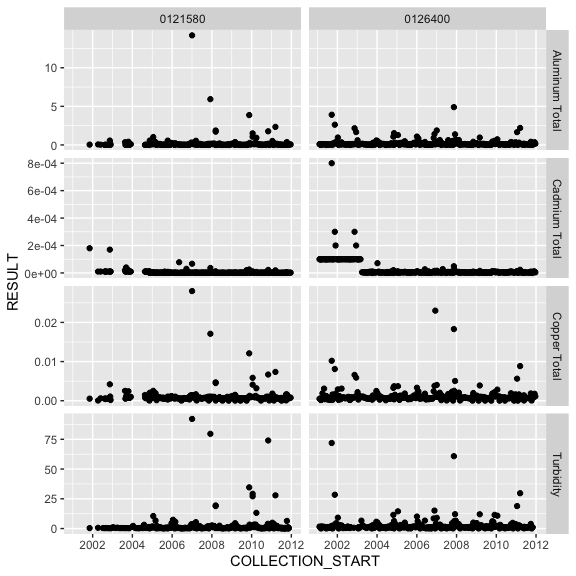
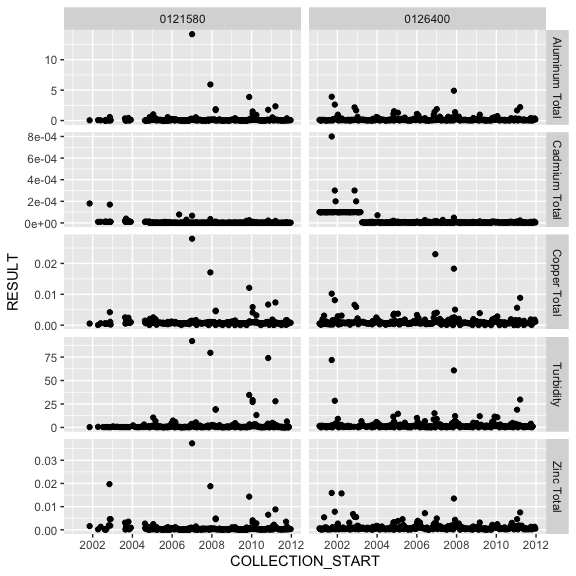
Update README

Changed region(s): [[0.0312, 0.0625, 1.0, 0.9375], [0.5312, 0.8438, 0.9375, 0.9375], [0.0625, 0.0938, 0.125, 0.125]]

diff --git a/README.md b/README.md
@@ -1,8 +1,7 @@
 
 <!-- README.md is generated from README.Rmd. Please edit that file -->
 
-rems 0.5.2
-==========
+# rems 0.6.0
 
 <!-- badges: start -->
 
@@ -16,8 +15,7 @@ status](https://github.com/bcgov/rems/workflows/R-CMD-check/badge.svg)](https://
 [![img](https://img.shields.io/badge/Lifecycle-Maturing-007EC6)](https://github.com/bcgov/repomountie/blob/master/doc/lifecycle-badges.md)
 <!-- badges: end -->
 
-Overview
---------
+## Overview
 
 An [R](https://www.r-project.org) package to download, import, and
 filter data from [B.C.’s Environmental Monitoring System
@@ -29,19 +27,19 @@ Results](https://catalogue.data.gov.bc.ca/dataset/949f2233-9612-4b06-92a9-903e81
 which is licenced under the [Open Government Licence - British
 Columbia](http://www2.gov.bc.ca/gov/content?id=A519A56BC2BF44E4A008B33FCF527F61).
 
-Installation
-------------
+## Installation
 
 The package is not available on CRAN, but can be installed using the
 [devtools](https://github.com/hadley/devtools) package:
 
-    # install.packages("devtools") # if not already installed
+``` r
+# install.packages("devtools") # if not already installed
 
-    library(devtools)
-    install_github("bcgov/rems")
+library(devtools)
+install_github("bcgov/rems")
+```
 
-Usage
------
+## Usage
 
 **NOTE:** If you are using Windows, you must be running the 64-bit
 version of R, as the 32-bit version cannot handle the size of the EMS
@@ -52,30 +50,32 @@ You can use the `get_ems_data()` function to get last two years of data
 (you can also specify `which = "4yr"` to get the last four years of
 data):
 
-    library(rems)
-    two_year <- get_ems_data(which = "2yr", ask = FALSE)
-    #> Downloading latest '2yr' EMS data from BC Data Catalogue (url: https://pub.data.gov.bc.ca/datasets/949f2233-9612-4b06-92a9-903e817da659/ems_sample_results_current_expanded.csv)
-    #> Reading data from file...
-    #> Caching data on disk...
-    #> Loading data...
-    nrow(two_year)
-    #> [1] 1497503
-    head(two_year)
-    #> # A tibble: 6 x 23
-    #>   EMS_ID MONITORING_LOCA… LATITUDE LONGITUDE LOCATION_TYPE COLLECTION_START   
-    #>   <chr>  <chr>               <dbl>     <dbl> <chr>         <dttm>             
-    #> 1 01215… ENGLISHMAN RIVE…     49.3     -124. RIVER,STREAM… 2019-01-07 09:00:00
-    #> 2 01215… ENGLISHMAN RIVE…     49.3     -124. RIVER,STREAM… 2019-01-07 09:00:00
-    #> 3 01215… ENGLISHMAN RIVE…     49.3     -124. RIVER,STREAM… 2019-01-07 09:00:00
-    #> 4 01215… ENGLISHMAN RIVE…     49.3     -124. RIVER,STREAM… 2019-01-07 09:00:00
-    #> 5 01215… ENGLISHMAN RIVE…     49.3     -124. RIVER,STREAM… 2019-01-07 09:00:00
-    #> 6 01215… ENGLISHMAN RIVE…     49.3     -124. RIVER,STREAM… 2019-01-07 09:00:00
-    #> # … with 17 more variables: LOCATION_PURPOSE <chr>, PERMIT <chr>,
-    #> #   SAMPLE_CLASS <chr>, SAMPLE_STATE <chr>, SAMPLE_DESCRIPTOR <chr>,
-    #> #   PARAMETER_CODE <chr>, PARAMETER <chr>, ANALYTICAL_METHOD_CODE <chr>,
-    #> #   ANALYTICAL_METHOD <chr>, RESULT_LETTER <chr>, RESULT <dbl>, UNIT <chr>,
-    #> #   METHOD_DETECTION_LIMIT <dbl>, MDL_UNIT <chr>, QA_INDEX_CODE <chr>,
-    #> #   UPPER_DEPTH <dbl>, LOWER_DEPTH <dbl>
+``` r
+library(rems)
+two_year <- get_ems_data(which = "2yr", ask = FALSE)
+#> Downloading latest '2yr' EMS data from BC Data Catalogue (url: https://pub.data.gov.bc.ca/datasets/949f2233-9612-4b06-92a9-903e817da659/ems_sample_results_current_expanded.csv)
+#> Reading data from file...
+#> Caching data on disk...
+#> Loading data...
+nrow(two_year)
+#> [1] 1757581
+head(two_year)
+#> # A tibble: 6 x 23
+#>   EMS_ID MONITORING_LOCA… LATITUDE LONGITUDE LOCATION_TYPE COLLECTION_START   
+#>   <chr>  <chr>               <dbl>     <dbl> <chr>         <dttm>             
+#> 1 01208… COWICHAN RIVER …     48.8     -124. RIVER,STREAM… 2020-12-02 17:50:00
+#> 2 01208… COWICHAN RIVER …     48.8     -124. RIVER,STREAM… 2020-12-02 17:50:00
+#> 3 01208… COWICHAN RIVER …     48.8     -124. RIVER,STREAM… 2020-12-02 17:50:00
+#> 4 01208… COWICHAN RIVER …     48.8     -124. RIVER,STREAM… 2020-12-02 17:50:00
+#> 5 01208… COWICHAN RIVER …     48.8     -124. RIVER,STREAM… 2020-12-02 17:50:00
+#> 6 01208… COWICHAN RIVER …     48.8     -124. RIVER,STREAM… 2020-12-02 17:50:00
+#> # … with 17 more variables: LOCATION_PURPOSE <chr>, PERMIT <chr>,
+#> #   SAMPLE_CLASS <chr>, SAMPLE_STATE <chr>, SAMPLE_DESCRIPTOR <chr>,
+#> #   PARAMETER_CODE <chr>, PARAMETER <chr>, ANALYTICAL_METHOD_CODE <chr>,
+#> #   ANALYTICAL_METHOD <chr>, RESULT_LETTER <chr>, RESULT <dbl>, UNIT <chr>,
+#> #   METHOD_DETECTION_LIMIT <dbl>, MDL_UNIT <chr>, QA_INDEX_CODE <chr>,
+#> #   UPPER_DEPTH <dbl>, LOWER_DEPTH <dbl>
+```
 
 By default, `get_ems_data` imports only a subset of columns that are
 useful for water quality analysis. This is controlled by the `cols`
@@ -85,17 +85,14 @@ names (see `?get_ems_data` for details).
 
 You can filter the data to just get the records you want:
 
-    filtered_2yr <- filter_ems_data(two_year, emsid = c("0121580", "0126400"),
-      parameter = c("Aluminum Total", "Cadmium Total",
-        "Copper Total", " Zinc Total",
-        "Turbidity"),
-      from_date = "2011/02/06",
-      to_date = "2015/12/31")
-    #> Warning: `filter_()` is deprecated as of dplyr 0.7.0.
-    #> Please use `filter()` instead.
-    #> See vignette('programming') for more help
-    #> This warning is displayed once every 8 hours.
-    #> Call `lifecycle::last_warnings()` to see where this warning was generated.
+``` r
+filtered_2yr <- filter_ems_data(two_year, emsid = c("0121580", "0126400"),
+  parameter = c("Aluminum Total", "Cadmium Total",
+    "Copper Total", " Zinc Total",
+    "Turbidity"),
+  from_date = "2011/02/06",
+  to_date = "2015/12/31")
+```
 
 You can also get the entire historic dataset, which has records back to
 1964. This needs to be done in two steps:
@@ -103,22 +100,22 @@ You can also get the entire historic dataset, which has records back to
 1.  First download the dataset using `download_historic_data`, which
     downloads the data and stores it in a `SQLite` database:
 
-<!-- -->
-
-    download_historic_data(ask = FALSE)
+``` r
+download_historic_data(ask = FALSE)
+```
 
 1.  Next, read in the historic data, supplying constraints to only
     import the records you want:
 
-<!-- -->
-
-    filtered_historic <- read_historic_data(emsid = c("0121580", "0126400"),
-      parameter = c("Aluminum Total", "Cadmium Total",
-        "Copper Total", " Zinc Total",
-        "Turbidity"),
-      from_date = "2001/02/05",
-      to_date = "2011/12/31",
-      check_db = FALSE)
+``` r
+filtered_historic <- read_historic_data(emsid = c("0121580", "0126400"),
+  parameter = c("Aluminum Total", "Cadmium Total",
+    "Copper Total", "Zinc Total",
+    "Turbidity"),
+  from_date = "2001/02/05",
+  to_date = "2011/12/31",
+  check_db = FALSE)
+```
 
 You can also query the sqlite database using `dplyr`, which ultimately
 gives you more flexibility than using `read_historic_data`:
@@ -128,62 +125,60 @@ which behaves like a data frame, which you can query with dplyr. The
 advantage is that the computation is done in the database rather than
 importing all of the records into R (which would likely be impossible).
 
-    library(dplyr)
-    #> 
-    #> Attaching package: 'dplyr'
-    #> The following objects are masked from 'package:stats':
-    #> 
-    #>     filter, lag
-    #> The following objects are masked from 'package:base':
-    #> 
-    #>     intersect, setdiff, setequal, union
-    hist_db <- attach_historic_data()
-    #> Warning: `src_sqlite()` is deprecated as of dplyr 1.0.0.
-    #> Please use `tbl()` directly with a database connection
-    #> This warning is displayed once every 8 hours.
-    #> Call `lifecycle::last_warnings()` to see where this warning was generated.
+``` r
+library(dplyr)
+hist_db <- attach_historic_data()
+```
 
 You can then query this object with dplyr:
 
-    filtered_historic2 <- hist_db %>%
-      select(EMS_ID, PARAMETER, COLLECTION_START, RESULT) %>%
-      filter(EMS_ID %in% c("0121580", "0126400"),
-        PARAMETER %in% c("Aluminum Total", "Cadmium Total",
-          "Copper Total", " Zinc Total",
-          "Turbidity"))
+``` r
+filtered_historic2 <- hist_db %>%
+  select(EMS_ID, PARAMETER, COLLECTION_START, RESULT) %>%
+  filter(EMS_ID %in% c("0121580", "0126400"),
+    PARAMETER %in% c("Aluminum Total", "Cadmium Total",
+      "Copper Total", " Zinc Total",
+      "Turbidity"))
+```
 
 Finally, to get the results into your R session as a regular data frame,
 you must `collect()` it. Note that date/times are stored in the `SQLite`
 database as integers, so you must convert them back to `POSIXct`. There
 is a shortcut function to do this: `ems_posix_numeric`:
 
-    filtered_historic2 <- collect(filtered_historic2) %>%
-      mutate(COLLECTION_START = ems_posix_numeric(COLLECTION_START))
-    glimpse(filtered_historic2)
-    #> Rows: 5,444
-    #> Columns: 4
-    #> $ EMS_ID           <chr> "0121580", "0121580", "0121580", "0121580", "0121580…
-    #> $ PARAMETER        <chr> "Cadmium Total", "Copper Total", "Copper Total", "Tu…
-    #> $ COLLECTION_START <dttm> 2003-08-26 08:15:00, 2003-10-27 11:55:00, 2004-11-0…
-    #> $ RESULT           <dbl> 1.00e-05, 9.30e-04, 1.12e-03, 8.40e-01, 3.00e-01, 4.…
+``` r
+filtered_historic2 <- collect(filtered_historic2) %>%
+  mutate(COLLECTION_START = ems_posix_numeric(COLLECTION_START))
+glimpse(filtered_historic2)
+#> Rows: 5,444
+#> Columns: 4
+#> $ EMS_ID           <chr> "0126400", "0126400", "0126400", "0126400", "0126400…
+#> $ PARAMETER        <chr> "Turbidity", "Cadmium Total", "Cadmium Total", "Turb…
+#> $ COLLECTION_START <dttm> 1994-08-14 23:15:00, 1994-11-03 04:45:00, 1994-09-2…
+#> $ RESULT           <dbl> 2.000000, 0.000100, 0.000100, 0.590000, 0.000100, 0.…
+```
 
 You can combine the previously imported historic and two\_year data sets
 using `bind_ems_data`:
 
-    all_data <- bind_ems_data(filtered_2yr, filtered_historic)
-    nrow(all_data)
-    #> [1] 2481
+``` r
+all_data <- bind_ems_data(filtered_2yr, filtered_historic)
+nrow(all_data)
+#> [1] 3100
+```
 
 For more advanced filtering, selecting, and summarizing, I recommend
 using the `dplyr` package.
 
 Then you can plot your data with ggplot2:
 
-    library(ggplot2)
+``` r
+library(ggplot2)
 
-    ggplot(all_data, aes(x = COLLECTION_START, y = RESULT)) +
-      geom_point() +
-      facet_grid(PARAMETER ~ EMS_ID, scales = "free_y")
+ggplot(all_data, aes(x = COLLECTION_START, y = RESULT)) +
+  geom_point() +
+  facet_grid(PARAMETER ~ EMS_ID, scales = "free_y")
+```
 
 ![](fig/README-unnamed-chunk-11-1.png)<!-- -->
 
@@ -197,43 +192,22 @@ If you want to remove the cached data, use the function
 `remove_data_cache`. You can remove all the data, or just the
 “historic”, “2yr”, or “4yr”:
 
-    remove_data_cache("2yr")
-    #> Removing 2yr data from your local cache...
+``` r
+remove_data_cache("2yr")
+#> Removing 2yr data from your local cache...
+```
 
-Developing
-----------
-
-### Releasing a new version
-
-As of version 0.5.0 the historic data will be provided as a sqlite
-database attached to the GitHub release, as such the release workflow is
-as follows:
-
-1.  Create a ‘draft’ release on GitHub with the new version number
-2.  Run the script `inst/create_historic_sqlite.R`
-3.  Upload `ems_historic.sqlite.zip` to the draft release
-4.  Edit release to create full release.
-
-### Updating `ems_historic.sqlite` without releasing a new version of rems:
-
-1.  Run the script `inst/create_historic_sqlite.R`
-2.  Upload `ems_historic.sqlite.zip` to the latest release, overwriting
-    the old file
-
-Project Status
---------------
+## Project Status
 
 Under development, but stable. Unlikely to break or change
 substantially.
 
-Getting Help or Reporting an Issue
-----------------------------------
+## Getting Help or Reporting an Issue
 
 To report bugs/issues/feature requests, please file an
 [issue](https://github.com/bcgov/rems/issues).
 
-How to Contribute
------------------
+## How to Contribute
 
 If you would like to contribute to the package, please see our
 [CONTRIBUTING](CONTRIBUTING.md) guidelines.
@@ -242,8 +216,7 @@ Please note that this project is released with a [Contributor Code of
 Conduct](CODE_OF_CONDUCT.md). By participating in this project you agree
 to abide by its terms.
 
-License
--------
+## License
 
     Copyright 2016 Province of British Columbia
 
